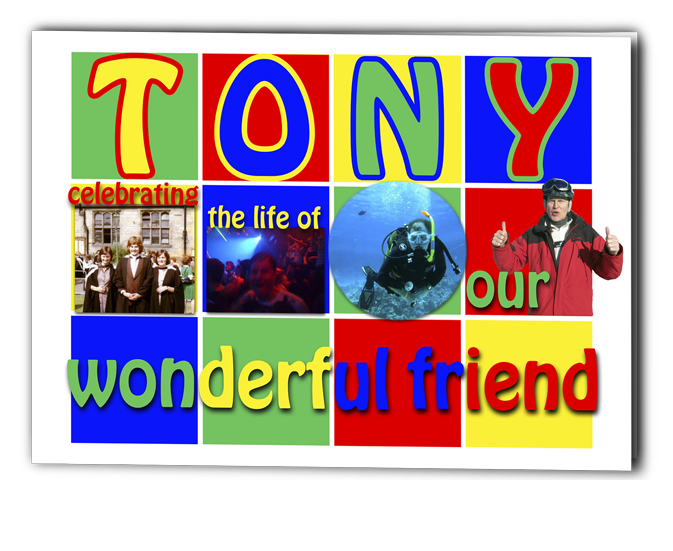
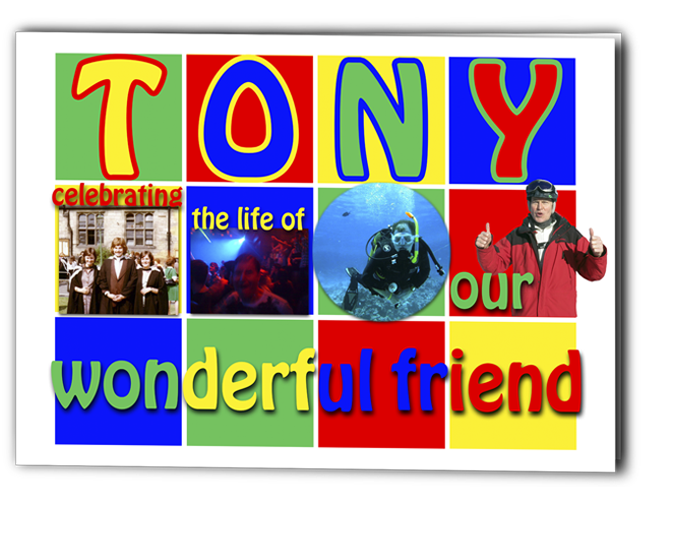
xxx_3

diff --git a/xxx/index.html b/xxx/index.html
@@ -25,7 +25,7 @@
 			<h1>LOOKING FOR A BIRTHDAY CARD TO SEND TO A
 			FARTING/ OLD/ DRUNKARD?</h1>
 			<p class="slogan">.... then you'll have plenty of choice in the shop</p>
-			<img id="Drunk_Old_Fart1" src="images/Drunk_Old_Fart1.jpg" alt="birthday cards for farting old drunkards" title="birthday card selection"><img id="Drunk_Old_Fart2" src="images/Drunk_Old_Fart2.jpg" alt="birthday cards for farting old drunkards" title="birthday card selection"><img id="Drunk_Old_Fart3" src="images/Drunk_Old_Fart3.jpg" alt="birthday cards for farting old drunkards" title="birthday card selection">
+			<img id="Drunk_Old_Fart1" src="images/Drunk_Old_Fart1.jpg" alt="birthday cards for farting old drunkards" title="birthday card selection"><img id="Drunk_Old_Fart2" src="images/Drunk_Old_Fart2.jpg" alt="birthday cards for farting old drunkards" title="birthday card selection"><img id="Drunk_Old_Fart3" src="images/Drunk_Old_Fart3.JPG" alt="birthday cards for farting old drunkards" title="birthday card selection">
 			
 		</section>
 
@@ -40,6 +40,25 @@
 		
 	<div class="wrapper">
 	<section id="ideas">
+
+		<section id="creative" class="idea1">
+				<img class="image5" src="images/lightbulb2.png" title="lightbulb">
+			<div class="float1">
+				<p>Take this......</p>
+				<img class="image1" src="images/P8193126.jpg" title="holiday-snap">
+				<p>..and this..</p>
+				<img class="image1" src="images/picasso.JPG" title="picasso">
+			</div>
+			<div class="afterfloat">
+				<p>..and with a bit of tweeking..</p>
+				<p>..you can have..</p>
+				<p class="accentuate">..a Cubist masterpiece!</p>
+			</div>
+			<div>
+			<img class="image3" src="images/Cubist_card.PNG" title="cubist-card">
+			</div>
+			
+		</section>
 				
 		<section id="personal" class="idea2">
 				<img class="image5" src="images/lightbulb2.png" title="lightbulb">
@@ -60,26 +79,7 @@
 			
 		</section>
 		
-		<section id="creative" class="idea1">
-				<img class="image5" src="images/lightbulb2.png" title="lightbulb">
-			<div class="float1">
-				<p>Take this......</p>
-				<img class="image1" src="images/P8193126.jpg" title="holiday-snap">
-				<p>..and this..</p>
-				<img class="image1" src="images/picasso.JPG" title="picasso">
-			</div>
-			<div class="afterfloat">
-				<p>..and with a bit of tweeking..</p>
-				<p>..you can have..</p>
-				<p class="accentuate">..a Cubist masterpiece!</p>
-			</div>
-			<div>
-			<img class="image3" src="images/Cubist_card.PNG" title="cubist-card">
-			</div>
-			
-		</section>
-		
-		<section id="memorable" class="idea1">
+		<section id="memorable" class="idea2">
 				<img class="image5" src="images/lightbulb2.png" title="lightbulb">
 			<div class="float1">
 				<p>Take this......</p>
@@ -98,7 +98,7 @@
 			
 		</section>
 
-		<section id="funny" class="idea2">
+		<section id="funny" class="idea1">
 				<img class="image5" src="images/lightbulb2.png" title="lightbulb">
 			<div class="float1">
 				<p>Take this..</p>
@@ -156,7 +156,7 @@
 				<p class="accentuate">..a fitting tribute</p>
 			</div>
 			<div>
-				<img class="image7" src="images/Serious_card.PNG" title="celebrating">
+				<img class="image7" src="images/Serious_card.png" title="celebrating">
 			</div>
 			
 		</section>

diff --git a/xxx/css/style.css b/xxx/css/style.css
@@ -214,7 +214,7 @@ ul {
 }
 .image7 {
 	padding-left: 2%;
-	height: 17.5em;
+	height: 17em;
 }
 .image8 {
 	display: block;
@@ -341,6 +341,17 @@ a#logo2:hover {
 		width: 100%;
 		font-size: 1.5em;
 	}
+	.image3 {
+		height: auto;
+		width: 95%;
+		max-width: 20em;
+		padding-left: 5%;
+	}
+	.image4, .image7 {
+		height: auto;
+		width: 98%;
+		padding-left: 1%;
+	}
 	.image5 {
 		float: right;
 		height: 7em;
@@ -381,12 +392,8 @@ a#logo2:hover {
 		#Drunk_Old_Fart3 {
 			display: none;
 		}
-		.image3 {
-			padding-left: 2%;
-		}
-		.image4 {
+		.image4, .image7 {
 			padding-left: 0;
-			height: 13em;
 		}
 			
 		.image5 {
@@ -420,17 +427,9 @@ a#logo2:hover {
 		}
 		.image3 {
 			padding: 0;
-			height: 20em;
-		}
-		.image4 {
-			padding: 0;
-			height: 9em;
 		}
 		.image5 {
 			height: 4em;
-		}
-		.image7 {
-			height: 10em;
 		}
 		aside {
 			font-size: .8em;
